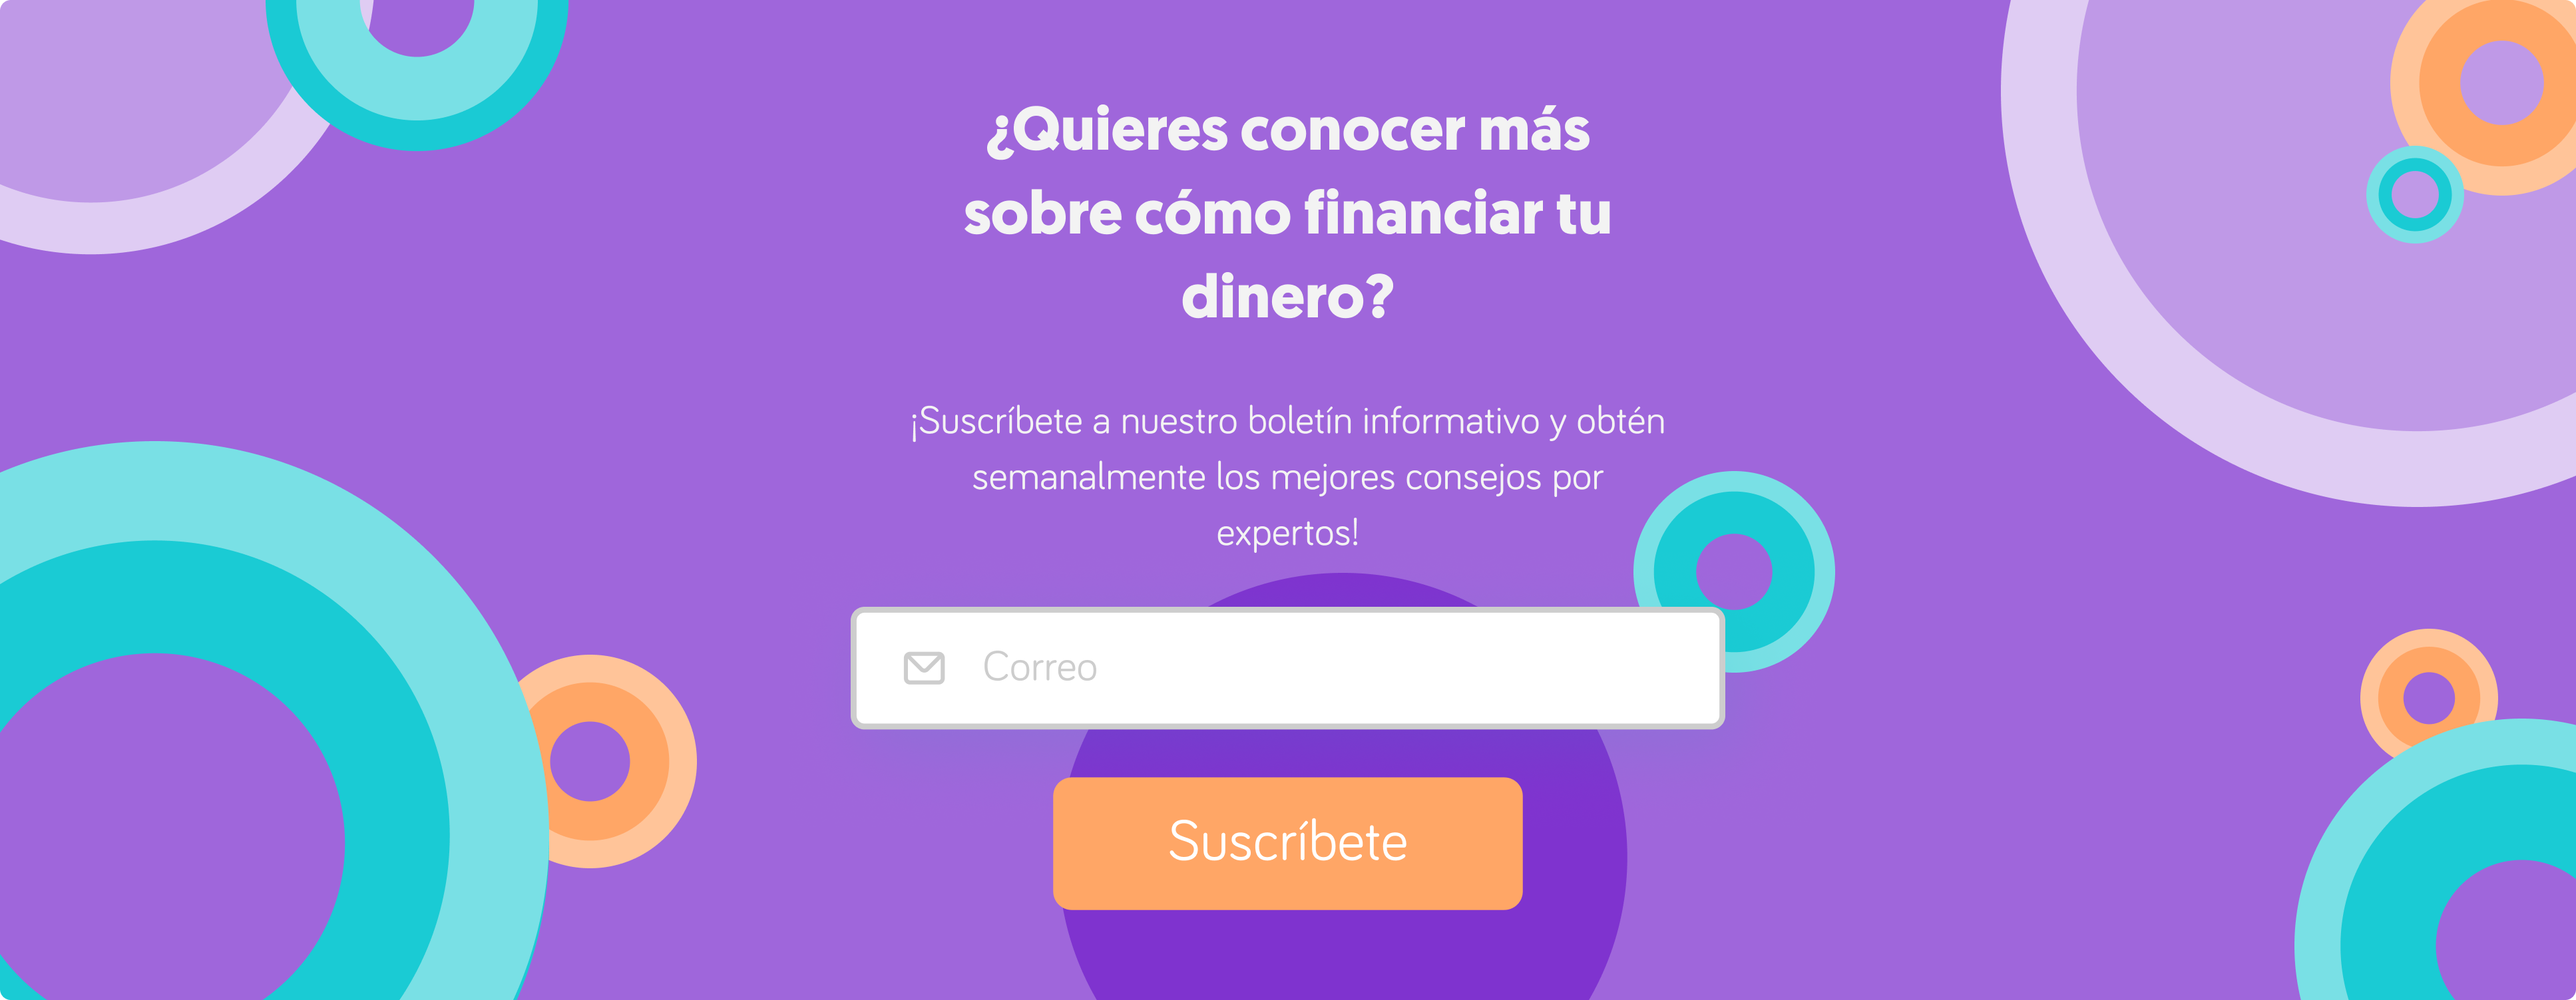
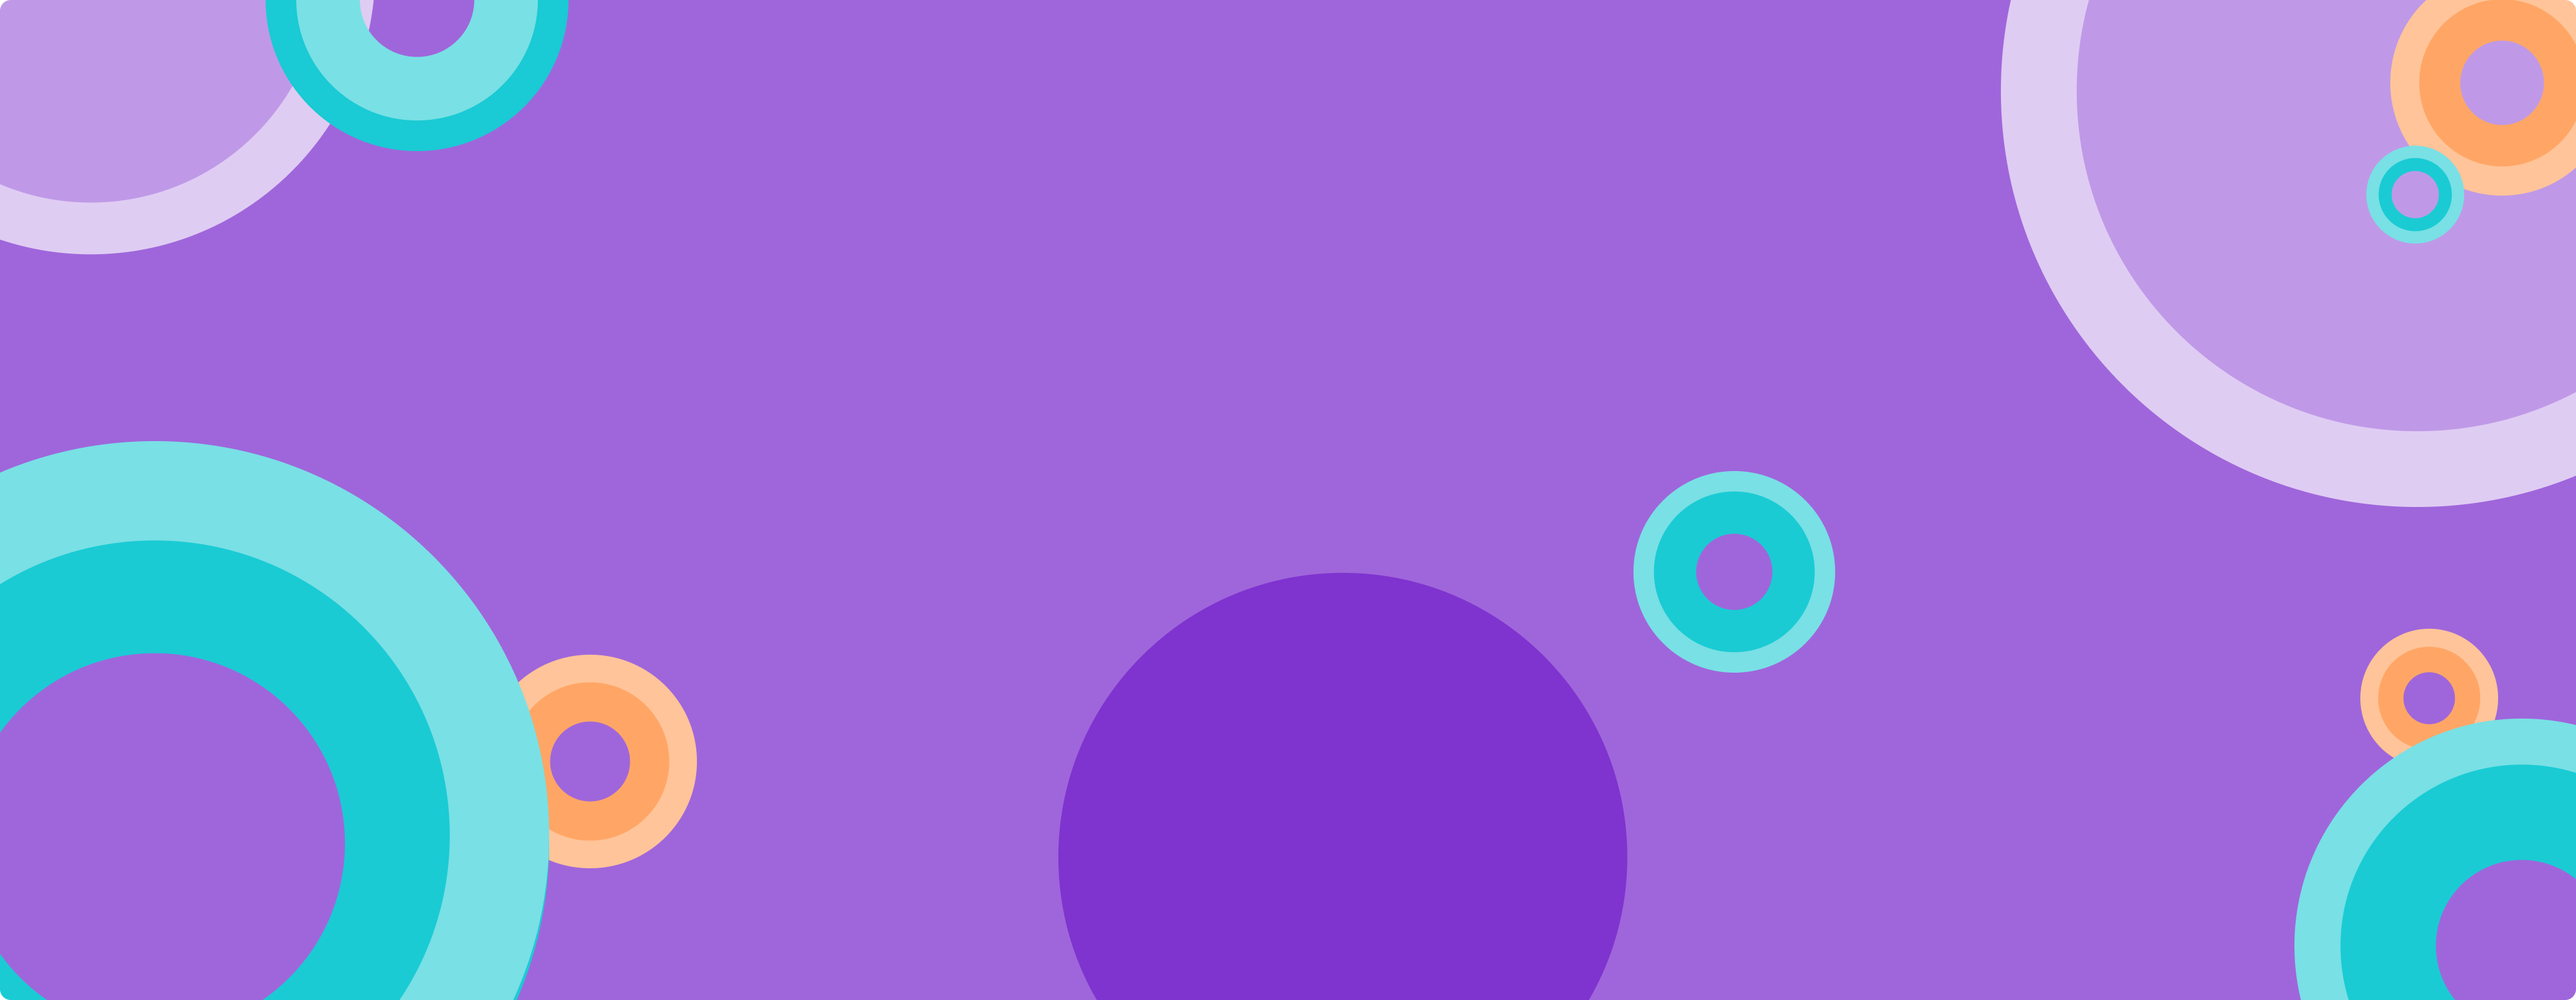
Hero landing fixed gap, Subscribe section added, input and hover button, responsive.

diff --git a/landing.css b/landing.css
@@ -362,18 +362,6 @@ h3 {
   font-weight: bold;
 }
 
-.subscribe img {
-  width: 100%;
-  position: relative;
-  padding: 10%;
-  display: block;
-}
-.subscribe2 img {
-  width: 100%;
-  position: relative;
-  padding: 10%;
-  display: none;
-}
 a {
   text-decoration: none;
   color: #9f66db;
@@ -401,6 +389,68 @@ a:active {
   width: 100%;
   position: relative;
   display: none;
+}
+
+.subscription-section {
+  background-image: url("./img/subscribe2.png");
+  background-size: cover;
+  background-position: center;
+  text-align: center;
+  justify-content: center;
+  flex-direction: column;
+  display: flex;
+  color: white;
+  height: 400px;
+  margin: 5%;
+  border-radius: 15px;
+}
+
+.subscription-section h1,
+.subscription-section p {
+  margin: 0 0 20px 0;
+  font-family: geomanist, sans-serif;
+}
+
+.subscription-section form {
+  display: flex;
+  flex-direction: column;
+  align-items: center;
+  justify-content: center;
+}
+
+.subscription-section input[type="email"] {
+  padding: 10px;
+  margin-bottom: 20px;
+  width: 100%;
+  max-width: 300px;
+  border-radius: 10px;
+  border-width: 1px;
+  color: #676767;
+}
+
+.subscription-section input[type="submit"] {
+  padding: 15px 45px;
+  cursor: pointer;
+  font-size: large;
+  background-color: #ffa666;
+  color: white;
+  border: none;
+  border-radius: 10px;
+}
+.subscription-section input[type="submit"]:hover {
+  background-color: #f3934f;
+  color: white;
+  transition: background-color 0.3s ease;
+}
+
+@media screen and (max-width: 768px) {
+  .subscription-section {
+    padding: 20px;
+  }
+
+  .subscription-section input[type="email"] {
+    margin-bottom: 10px;
+  }
 }
 /* /////////////////////////// Estilos para la sección de recomendaciones en pantallas md ///////////////////////////  */
 /* Media query para pantallas con ancho mínimo de 640px */
@@ -533,18 +583,7 @@ a:active {
     padding-right: 5%;
     width: 100%;
   }
-  .subscribe img {
-    width: 100%;
-    position: relative;
-    padding: 10%;
-    display: block;
-  }
-  .subscribe2 img {
-    width: 100%;
-    position: relative;
-    padding: 10%;
-    display: none;
-  }
+
   .hero2 img {
     width: 100%;
     position: relative;
@@ -574,6 +613,7 @@ a:active {
     width: 100%;
     position: relative;
     display: block;
+    margin-top: -20px;
   }
   .hero {
     position: relative;
@@ -782,19 +822,6 @@ a:active {
     display: flex;
     justify-content: end;
     transform: translate(30%, 0%);
-  }
-
-  .subscribe img {
-    width: 100%;
-    position: relative;
-    padding: 10%;
-    display: none;
-  }
-  .subscribe2 img {
-    width: 100%;
-    position: relative;
-    padding: 10%;
-    display: block;
   }
 
   /******************************** Landing user*/

diff --git a/index.html b/index.html
@@ -33,7 +33,7 @@
     </button>
     <button class="hero-options-middle2">
       <img class="button-image" src="img/comparador.svg" alt="Blog">
-      <a href="/Comparador-inversion/comparador-inversion.html">Comparador financiero</a>
+      <a href="">Comparador financiero</a>
     </button>
     <button class="hero-options-last">
       <img class="button-image" src="icons/calculator.svg" alt="Simulador financiero">
@@ -60,6 +60,7 @@
             </h4>
             <p class="card-text">Implementar algunas acciones sencillas para reconocer el gasto emocional puede ayudar a
               que sea más fácil ajustarte a tu presupuesto.</p>
+            <button class="card-button">Ver más videos <span>&rarr;</span></button>
           </div>
         </div>
         <div class="card">
@@ -71,6 +72,7 @@
               azafata que en sus viajes traía perfumes o ropa para vender; vimos como muchos amigos y …
               .</p>
             <a class="boton-noticia" href="/Blog-noticia/noticia.html">
+              <button class="card-button">Ver más artículos<span>&rarr;</span></button>
             </a>
           </div>
         </div>
@@ -81,25 +83,35 @@
             </h4>
             <p class="card-text">Si eres un empleador podrás recibir un beneficio monetario mensual
               .</p>
+            <button class="card-button">Ver más documentos<span>&rarr;</span></button>
           </div>
         </div>
       </div>
     </div>
   </div>
-  <div class="subscribe">
-    <img src="img/subscribe-mobile.png" alt="Imagen de subscribe" class="subscribe-image">
+
+  <div class="subscription-section">
+    <h1>¿Quieres conocer más sobre cómo financiar tu dinero?</h1>
+    <p>¡Suscríbete a nuestro boletín informativo y obtén semanalmente los mejores consejos por expertos!</p>
+    <form>
+      <input type="email" id="email" name="email" placeholder="Correo electrónico">
+      <input type="submit" value="Suscríbete">
+    </form>
   </div>
-  <div class="subscribe2">
-    <img src="img/subscribe2.png" alt="Imagen de subscribe" class="subscribe-image">
-  </div>
+
+
+
+
+
+
 
   <!-- Estructura del footer -->
 
-  <custom-footer></custom-footer>
+
+
 
   <script type="module" src="/Navbar/navbar-component.js"></script>
   <script src="/Boton-Test/boton-ayuda-component.js"></script>
-  <script type="module" src="../Footer/footer-component.js"></script>
 
   <script src="landing.js"></script>
 </body>
